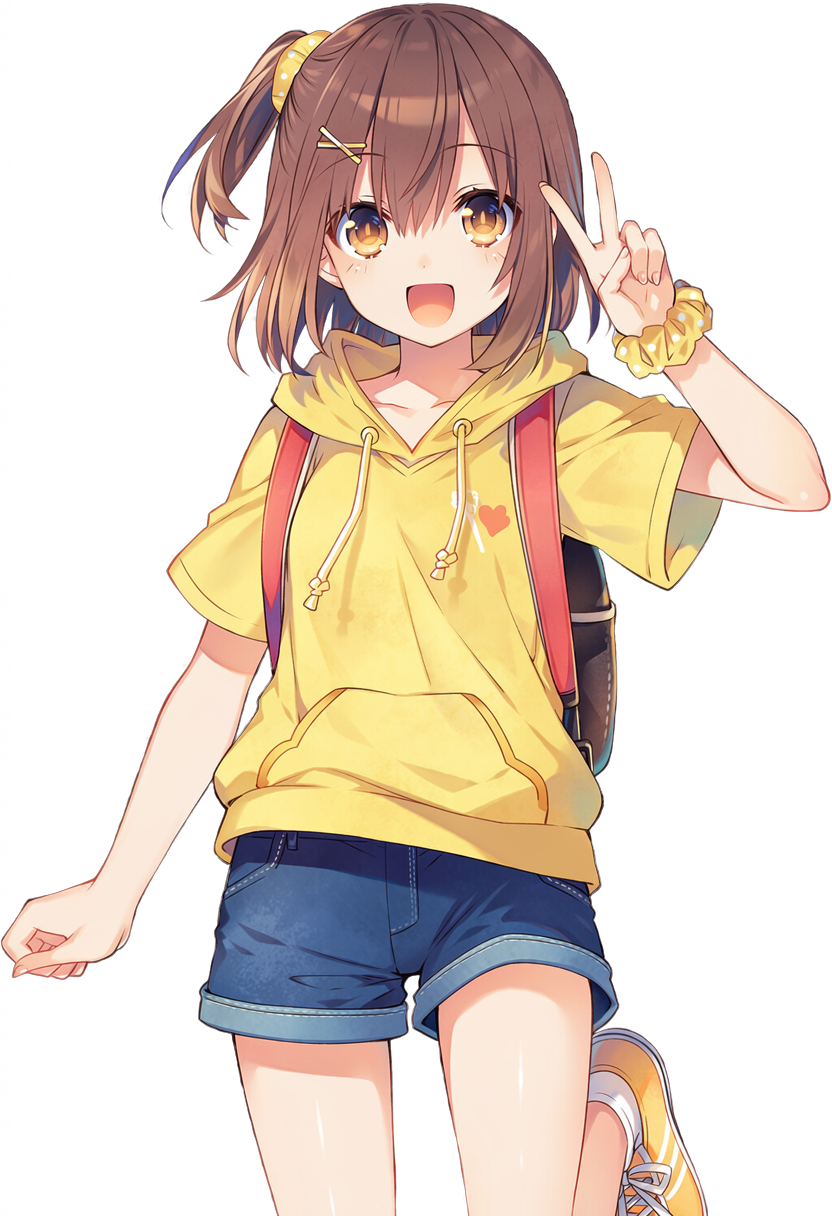
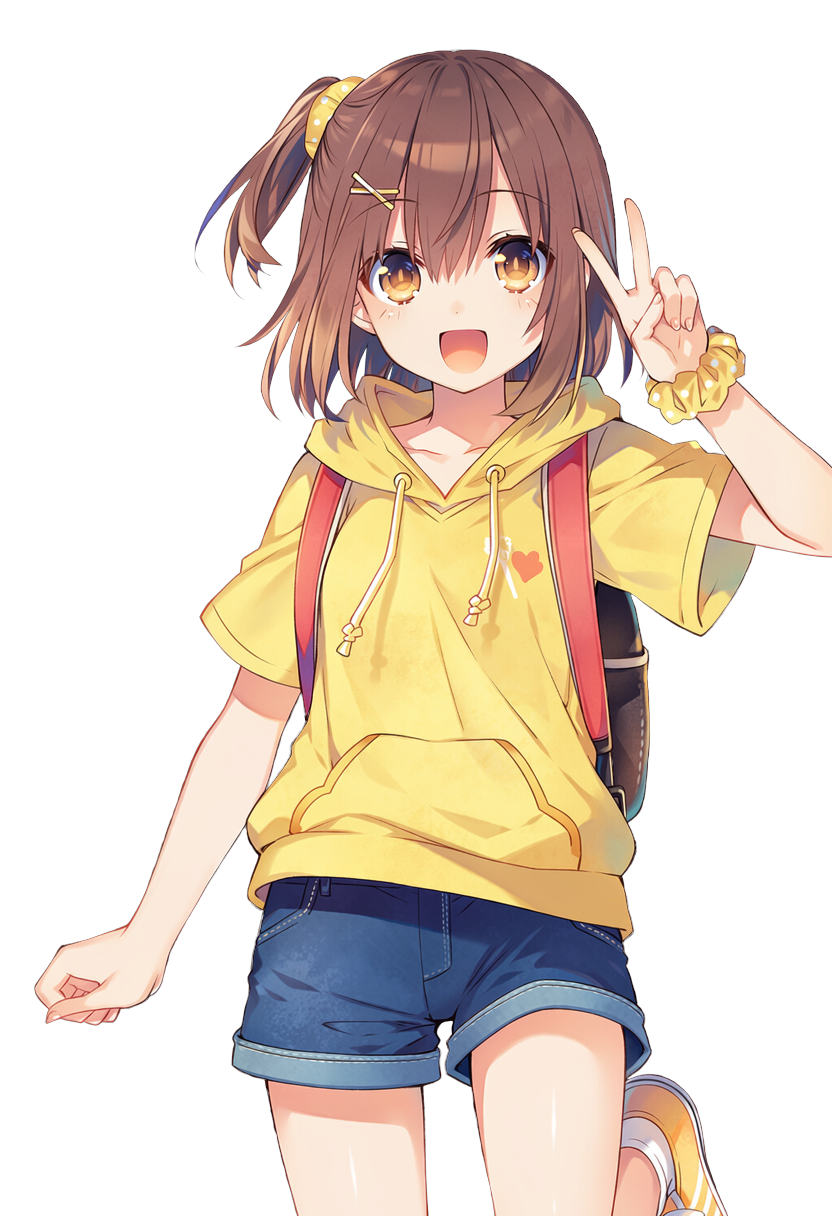
스탠딩 정렬: 머리가 기준선보다 위면 아래로 내리기, 유카타 2장 cowboy shot 강화로 다시
Claude-Session: https://claude.ai/code/session_01J9LK3bqysKmVDALVfywPuM

diff --git a/tools/nai/normalize.py b/tools/nai/normalize.py
@@ -42,6 +42,8 @@ def normalize(path):
     out = Image.new('RGBA', (W, H), (0, 0, 0, 0))
     ox = round(W / 2 - cx)
     oy = H - im.size[1]                                    # 아래를 캔버스 아래에
+    if s <= 1.001 and t2 < want:
+        oy = want - t2                                     # 머리가 선보다 위면 아래로 내린다(아래쪽이 조금 더 잘린다)
     out.paste(im, (ox, oy), im)                            # 음수 위치도 잘려서 붙는다
     out.save(path)
     return s, ox
